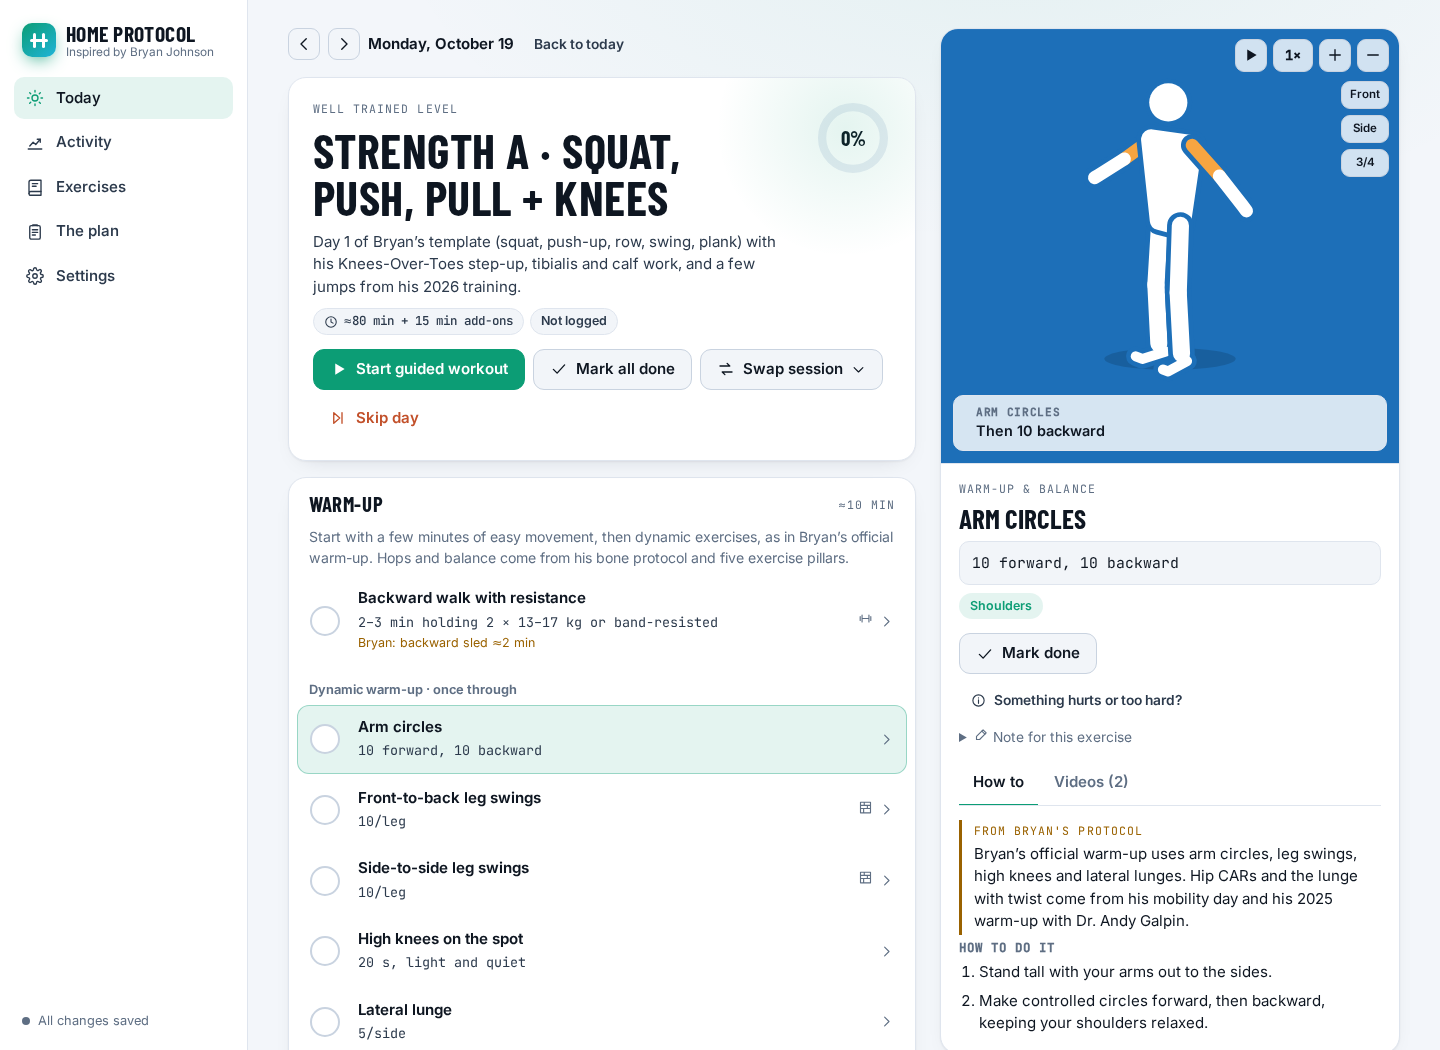
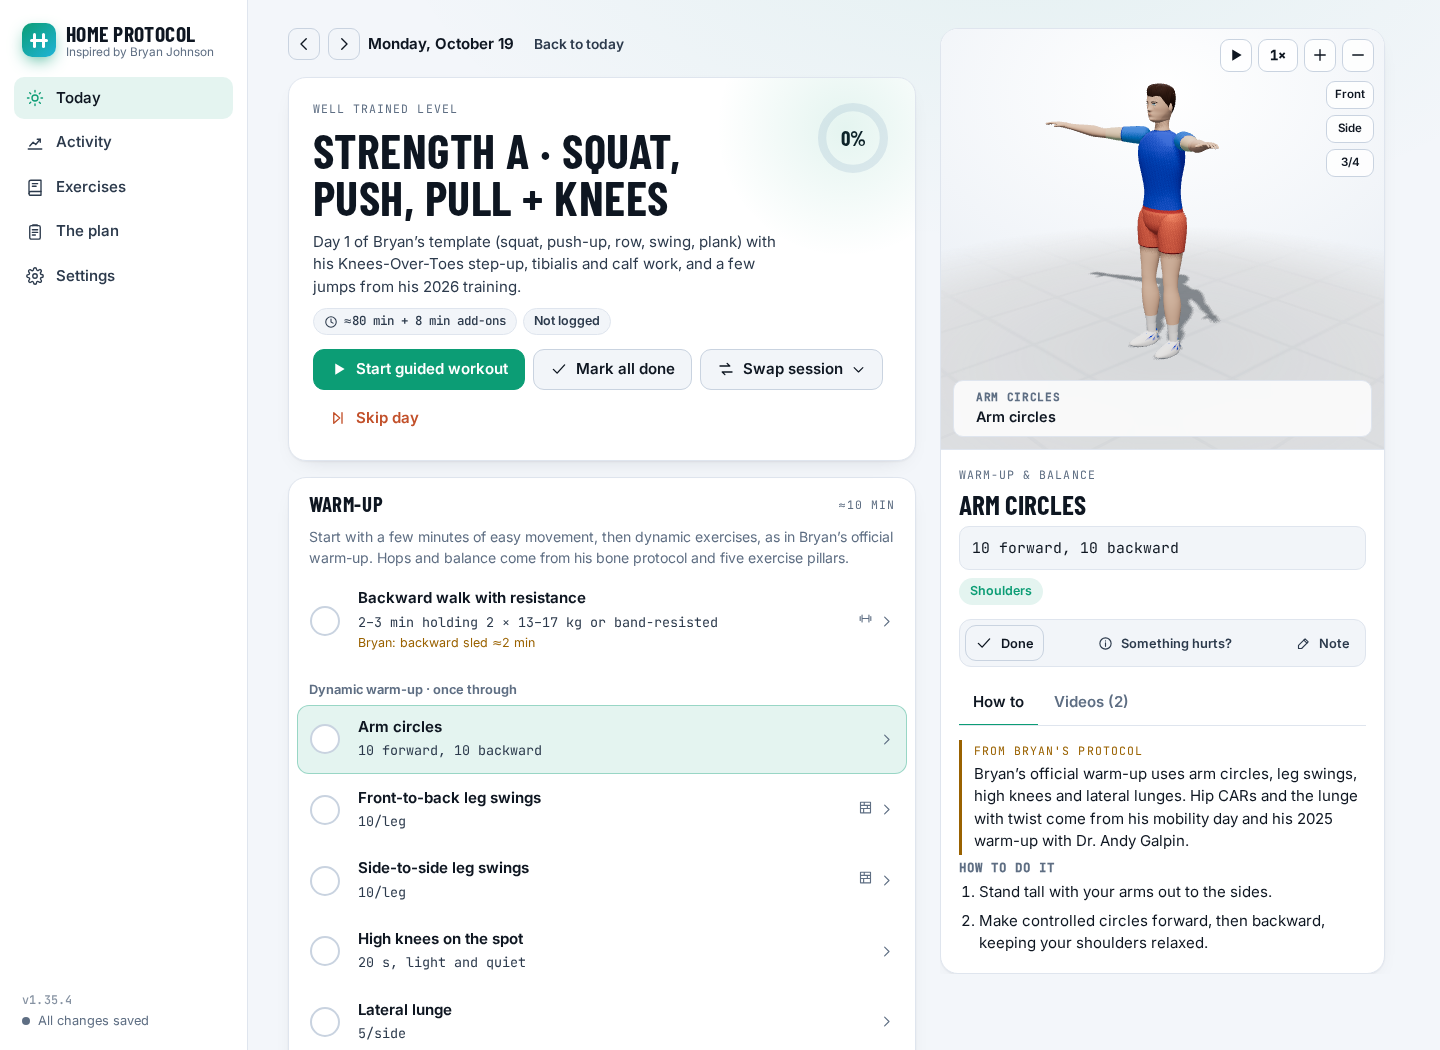
Simplify README audio sections and vary opening animation screenshots

Changed region(s): [[0.6562, 0.0305, 0.9688, 1.0], [0.9062, 0.6095, 0.9375, 0.64], [0.375, 0.3048, 0.4062, 0.3352]]

diff --git a/README.md b/README.md
@@ -11,8 +11,8 @@ A local web app that plans and tracks a six-day home workout built from **Bryan 
 - **Tracking**: sets × reps × weight, holds, cardio minutes and heart rate, interval rounds, notes per exercise and per day, effort and energy, extra activity (desk treadmill, walks…), body weight.
 - **Auto-save**: there is no Save button. Everything is written to your own computer as you type.
 - **Skipped days are fine**: skip with a reason and a note, swap sessions around; nothing moves on without you.
-- **Guided workout mode** keeps the full demonstration visible on desktop and shows interval rounds in order beneath it, with each work burst and recovery listed. Hover along the progress bar to preview each exercise, then click to jump there. The step counter beside Exit also opens the exercise list. Jumping leaves the other steps unmarked. Only the bottom **Skip** and **Done, next** buttons record guided completion; the green bar shows completed steps. Coach-audio loading messages sit at the bottom of the right panel. The optional local voice coach has five English voices, personalised doses, set and timer cues, and form tips during rest. Interval, hold and rest timers also have beeps.
-- **Radio in guided workouts**: open **Radio** in the top bar to choose from 19 stations across electronic, rock, metal, hip-hop, dance, indie and more, with volume, mute and previous/next controls. FIP Electro is the default. Music gets quieter while the coach speaks, then returns to your chosen volume.
+- **Guided workout mode** keeps the full demonstration visible on desktop and shows interval rounds in order beneath it, with each work burst and recovery listed. Hover along the progress bar to preview each exercise, then click to jump there. The step counter beside Exit also opens the exercise list. Jumping leaves the other steps unmarked. Only the bottom **Skip** and **Done, next** buttons record guided completion; the green bar shows completed steps. Coach-audio loading messages sit at the bottom of the right panel. The optional [voice coach](#voice-coach) adds spoken cues. Interval, hold and rest timers also have beeps.
+- **[Workout radio](#workout-radio)**: music during guided workouts, with 19 stations and automatic volume reduction while the coach speaks.
 - **Next time, on the plan's rule**: every strength exercise gets a one-line suggestion (repeat, add 1–2 kg for upper body or 2–4 kg for legs, or add a rep) showing how far along the two-sessions-at-the-top rule you are (for example “1 of 2 sessions at the top”). Tap **Use** to fill it in. After a level change the count starts fresh at the new level's range.
 - **Level check**: the plan's own move-up checkpoints (sessions and weeks at your level, plus the two questions for that level) in **Today → Notes & observations** and again after a guided workout. A **Level check ready** chip appears in the day header when both checks are done, and moving up first explains what the next level changes. A step-down reminder follows a long break. You always change level yourself; past logs keep theirs.
 - **Bryan's weekly targets**: one comparison in **Activity → This week**, showing your level's weekly targets alongside Bryan's full Well trained week, with what is left and which days count.
@@ -27,10 +27,10 @@ A local web app that plans and tracks a six-day home workout built from **Bryan 
 - An exercise library with equipment, muscle, source and category filters, and the full plan with dated sources.
 - Custom rest timer values, compact effort and energy ratings, and more than 30 extra activities to log.
 
-![The Today screen: the day's blocks on the left, the selected exercise with its 3D animation and set logger on the right](docs/screenshots/today.png)
+![Today with the default Athlete animation: the day's blocks on the left, the selected exercise and logger on the right](docs/screenshots/today.png)
 
 <p>
-<img src="docs/screenshots/exercise.png" width="32%" alt="An exercise page with its animation, steps and videos">
+<img src="docs/screenshots/exercise.png" width="32%" alt="An exercise page with the Female athlete animation, steps and videos">
 <img src="docs/screenshots/progress-returning.png" width="32%" alt="Progress at Returning: sessions, Zone 2 and hard-cardio minutes per week">
 <img src="docs/screenshots/history.png" width="32%" alt="History calendar with skip reasons">
 </p>
@@ -39,8 +39,8 @@ A local web app that plans and tracks a six-day home workout built from **Bryan 
 <img src="docs/screenshots/setup-accessories.png" width="49%" alt="First-run equipment setup: 3D examples and your equipment names and links">
 </p>
 <p>
-<img src="docs/screenshots/mobile-today.png" width="24%" alt="Today on a phone">
-<img src="docs/screenshots/mobile-exercise.png" width="24%" alt="An exercise on a phone">
+<img src="docs/screenshots/mobile-today.png" width="24%" alt="Today on a phone with the Robot animation">
+<img src="docs/screenshots/mobile-exercise.png" width="24%" alt="An exercise on a phone with the Doodle animation">
 </p>
 
 ![Mobile bottom navigation: Today, Activity, Exercises, Plan and Settings](docs/screenshots/mobile-navigation.png)
@@ -228,11 +228,25 @@ The inventory is collapsed by default in Settings. Open **Your equipment** when 
 
 ## Workout radio
 
-Open **Radio** in the guided workout's top bar. FIP Electro is the default; choose from 19 stations grouped as **High energy**, **Upbeat** and **Chill**, play or pause, use the arrows for the previous or next station, and set the volume. The speaker button **inside the Radio popup** mutes the stream without changing the volume. The music keeps playing while you move between exercises, and your station and volume are saved for next time. Stations come from FIP (Radio France), Radio Paradise, KEXP, The Current, Fréquence 3 and Rinse FM. The streams need an internet connection.
+Open **Radio** in a guided workout to choose from 19 stations. Radio needs an internet connection.
+
+<details>
+<summary><b>Radio controls and stations</b></summary>
+
+FIP Electro is the default. Stations are grouped as **High energy**, **Upbeat** and **Chill**. Play or pause, use the arrows for the previous or next station, and set the volume. The speaker button inside the Radio popup mutes the stream without changing the volume.
+
+Music keeps playing between exercises, and your station and volume are saved for next time. It gets quieter while the coach speaks, then returns to your chosen volume. Stations come from FIP (Radio France), Radio Paradise, KEXP, The Current, Fréquence 3 and Rinse FM.
+
+</details>
 
 ## Voice coach
 
-Open **Coach** beside Radio in a guided workout, or **Settings → Voice coach**, then **Turn coaching on**. The app includes recorded Kokoro audio for Heart and Bella (American women), Michael and Puck (American men), and Emma (British woman). No speech model or hours of local generation are needed.
+Choose **Turn coaching on** in **Coach** during a guided workout, or in **Settings → Voice coach**. Five English voices give exercise, set and timer cues using included recordings that work offline.
+
+<details>
+<summary><b>Voices, controls and audio storage</b></summary>
+
+The app includes recorded Kokoro audio for Heart and Bella (American women), Michael and Puck (American men), and Emma (British woman). No speech model or local generation is needed.
 
 The first activation unpacks the default and selected voices for playback. Requested speech can play while the rest copies in the background. No audio is unpacked before you turn coaching on yourself. Choosing another voice saves its recordings too; completed voices stay ready when you switch back. Preparation can finish with the page closed and resumes after a server restart. Your PC, tablet and phone all use the audio saved on the computer hosting the app.
 
@@ -246,28 +260,7 @@ Recordings are stored individually under `voice/packs/`, with a filename based o
 
 Unpacked audio stays in the gitignored `.voice/` folder, separate from personal logs and backups. Selected voice packs are protected from automatic cleanup; other generated audio has a separate 256 MB limit. Speech works offline; radio needs internet. The optional native model installer remains available for rebuilding recordings or using a checkout without shared audio.
 
-![Five local English voices with preview, pace and coaching controls](docs/screenshots/voice-settings.png)
-
-<p>
-<img src="docs/screenshots/guided-coach.png" width="69%" alt="Coach popup beside Radio in a guided workout">
-<img src="docs/screenshots/mobile-guided-coach.png" width="25%" alt="Voice coach controls on a phone">
-</p>
-
-![Guided short intervals with numbered rounds in order beneath the demonstration](docs/screenshots/guided-intervals.png)
-
-<p>
-<img src="docs/screenshots/guided-step-picker.png" width="49%" alt="Guided step counter open with a list of exercises to jump to">
-<img src="docs/screenshots/guided-interval-timer.png" width="49%" alt="An interval timer with its animated movement demonstration">
-</p>
-
-![Hovering along the guided progress bar previews the exercise at that position; click to jump there](docs/screenshots/guided-progress-bar.png)
-
-<p>
-<img src="docs/screenshots/today-follow-panel.png" width="49%" alt="Today scrolled down with the selected exercise animation still visible beside the list">
-<img src="docs/screenshots/guided-status-bottom.png" width="49%" alt="Guided coach-audio status below the exercise controls">
-</p>
-
-![Today’s compact Done, Something hurts? and Note buttons](docs/screenshots/today-action-row.png)
+</details>
 
 ## Themes
 

diff --git a/CHANGELOG.md b/CHANGELOG.md
@@ -1,5 +1,11 @@
 # Changelog
 
+## [1.35.4] - 2026-10-20
+
+### Changed
+- README voice and radio details start collapsed, with no screenshots in the voice section.
+- Opening screenshots show different animation styles, starting with the default Athlete.
+
 ## [1.35.3] - 2026-10-20
 
 ### Changed
